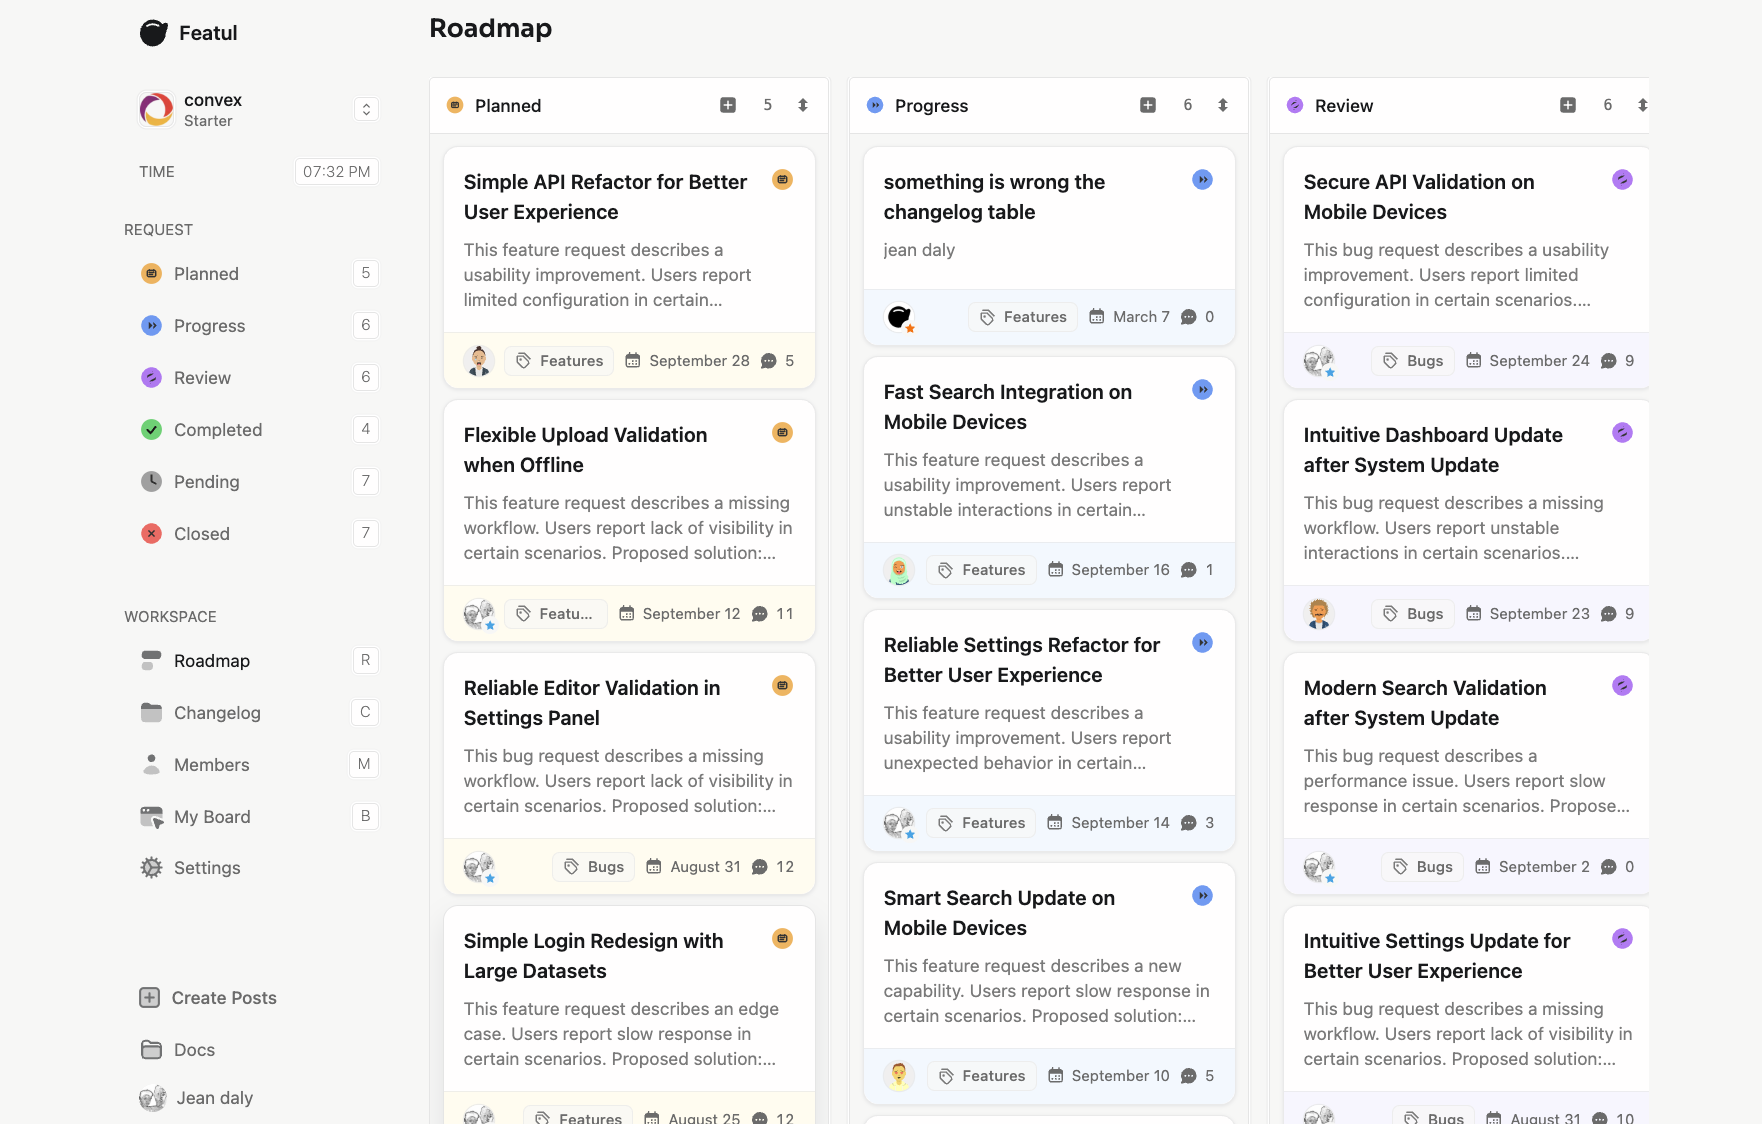
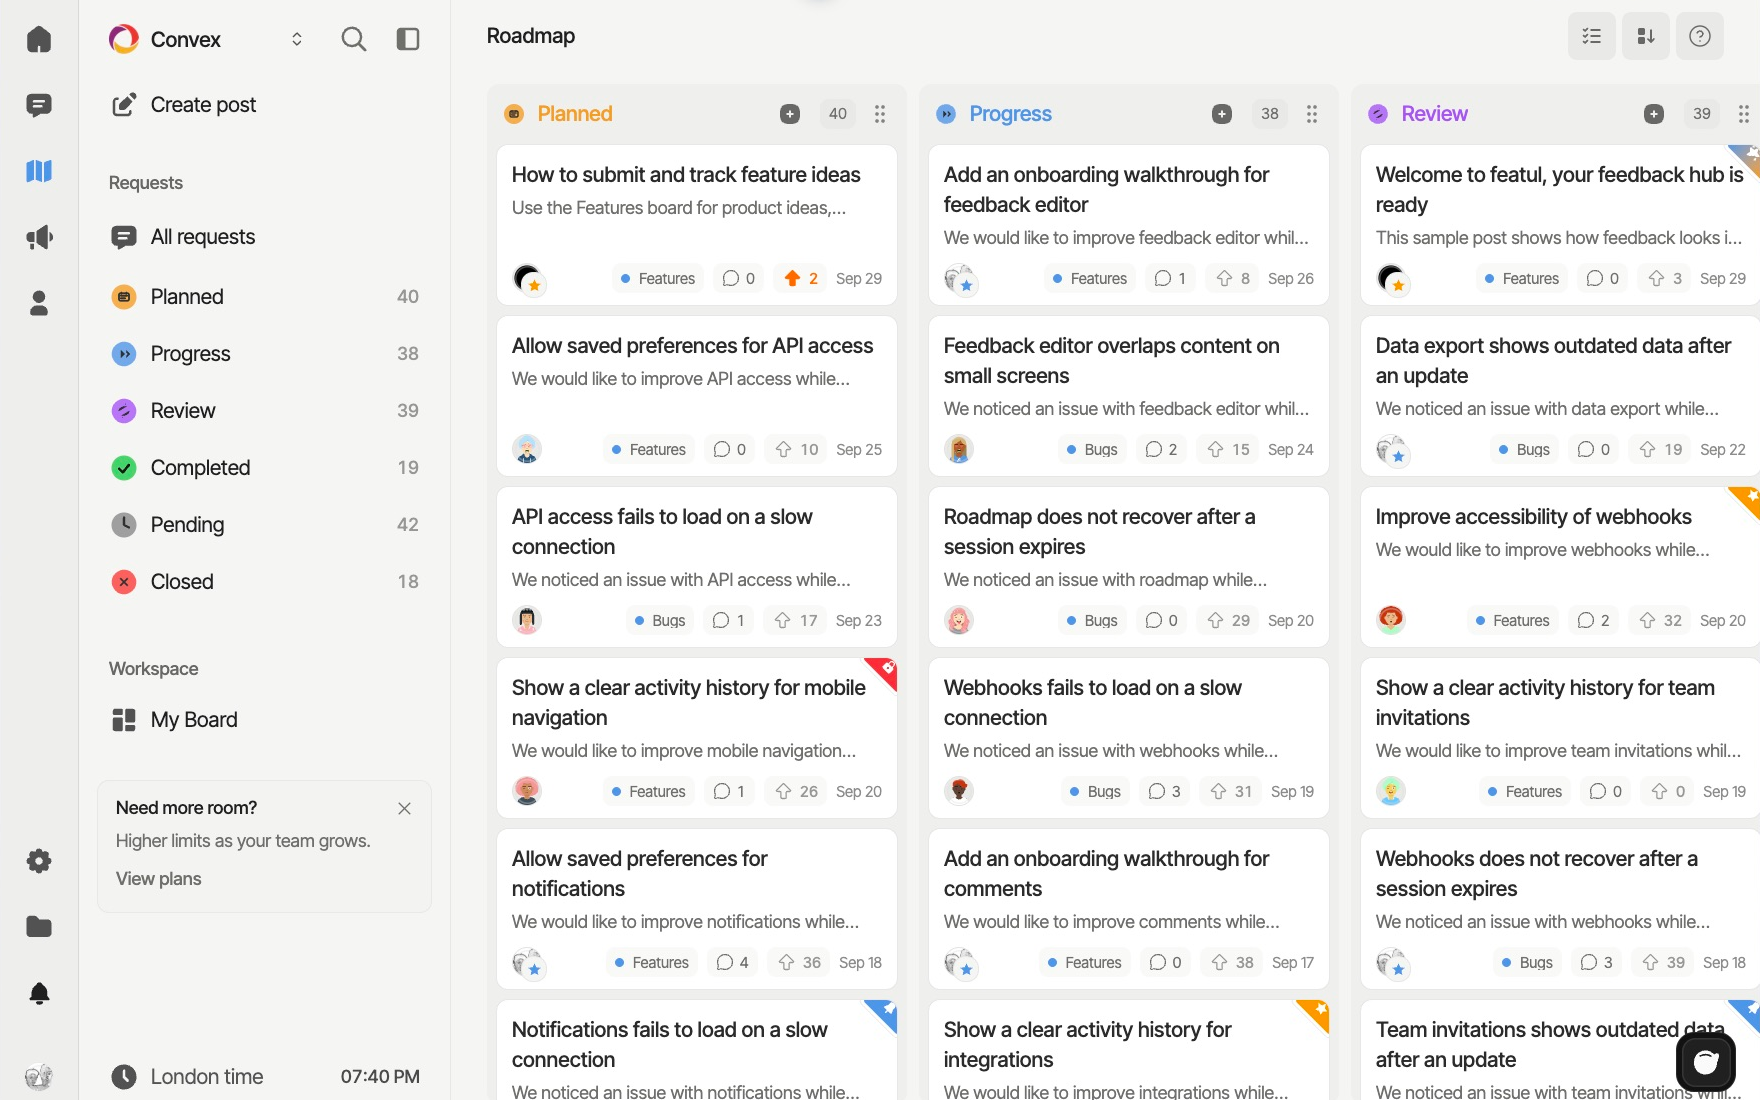
feat: refresh marketing screenshots and preview transitions

diff --git a/apps/web/src/components/home/showcase.tsx b/apps/web/src/components/home/showcase.tsx
@@ -10,7 +10,13 @@ import Image from "next/image";
 import { useId, useState } from "react";
 import { motion, useReducedMotion } from "framer-motion";
 import { Tabs } from "radix-ui";
-import { DASHBOARD_BLUR_DATA_URL } from "@/components/layout/sky-banner";
+import {
+  MarketingContainer,
+  MarketingRail,
+} from "@/components/layout/container";
+import dashboard from "../../../public/image/dashboard.png";
+import roadmap from "../../../public/image/roadmap.png";
+import changelog from "../../../public/image/changelog.png";
 import { DitherBackdrop } from "./backdrop";
 
 const previews = [
@@ -19,9 +25,7 @@ const previews = [
     label: "Feedback",
     icon: BoardIcon,
     iconColor: "#4189e2",
-    image: "/image/dashboard.png",
-    width: 1762,
-    height: 1124,
+    image: dashboard,
     alt: "Featul feedback workspace with customer requests, votes, comments, and statuses",
   },
   {
@@ -29,9 +33,7 @@ const previews = [
     label: "Roadmap",
     icon: RoadmapIcon,
     iconColor: "#3b95af",
-    image: "/image/roadmap.png",
-    width: 1762,
-    height: 1124,
+    image: roadmap,
     alt: "Featul roadmap showing customer requests organized into planned, progress, and review columns",
   },
   {
@@ -39,9 +41,7 @@ const previews = [
     label: "Changelog",
     icon: ChangelogIcon,
     iconColor: "#837ec8",
-    image: "/image/changelog.png",
-    width: 1762,
-    height: 1124,
+    image: changelog,
     alt: "Featul changelog workspace for writing and publishing product updates",
   },
 ];
@@ -115,24 +115,30 @@ export function Showcase() {
         <Tabs.Content
           key={preview.id}
           value={preview.id}
-          className="px-3 pb-12 pt-10 focus-visible:outline-2 focus-visible:outline-offset-4 focus-visible:outline-primary sm:px-10 sm:py-16 lg:px-16 lg:pb-24 lg:pt-20"
+          className="pb-12 pt-8 focus-visible:outline-2 focus-visible:outline-offset-4 focus-visible:outline-primary sm:pb-16 sm:pt-12 lg:pb-20"
         >
-          <div className="mx-auto max-w-[1080px] overflow-hidden rounded-xl bg-card p-1 shadow-[0_24px_64px_-20px_rgba(0,0,0,0.35)] ring-1 ring-white/40 sm:rounded-2xl sm:p-2">
-            <div className="overflow-hidden rounded-lg">
-              <Image
-                src={preview.image}
-                alt={preview.alt}
-                width={preview.width}
-                height={preview.height}
-                quality={100}
-                priority={index === 0}
-                sizes="(max-width: 639px) calc(100vw - 32px), (max-width: 1023px) calc(100vw - 96px), (max-width: 1207px) calc(100vw - 144px), 1064px"
-                placeholder="blur"
-                blurDataURL={DASHBOARD_BLUR_DATA_URL}
-                className="block h-auto w-full"
-              />
-            </div>
-          </div>
+          <MarketingContainer>
+            <MarketingRail>
+              <div className="overflow-hidden rounded-xl bg-card p-1 shadow-[0_24px_64px_-20px_rgba(0,0,0,0.35)] ring-1 ring-white/40 sm:rounded-2xl sm:p-2">
+                <motion.div
+                  initial={reduceMotion ? false : { opacity: 0.85 }}
+                  animate={{ opacity: 1 }}
+                  transition={{ duration: reduceMotion ? 0 : 0.2, ease: "easeOut" }}
+                  className="aspect-[16/10] overflow-hidden rounded-lg"
+                >
+                  <Image
+                    src={preview.image}
+                    alt={preview.alt}
+                    quality={100}
+                    priority={index === 0}
+                    sizes="(max-width: 639px) calc(90vw - 32px), (max-width: 1023px) calc(100vw - 144px), (max-width: 1151px) calc(100vw - 160px), (max-width: 1279px) 992px, 976px"
+                    placeholder="blur"
+                    className="block h-full w-full object-contain"
+                  />
+                </motion.div>
+              </div>
+            </MarketingRail>
+          </MarketingContainer>
         </Tabs.Content>
       ))}
     </Tabs.Root>

diff --git a/apps/web/src/components/layout/hero.tsx b/apps/web/src/components/layout/hero.tsx
@@ -3,10 +3,8 @@
 import type { ReactNode } from "react";
 import Image from "next/image";
 import { MarketingContainer, MarketingRail } from "@/components/layout/container";
-import {
-  DASHBOARD_BLUR_DATA_URL,
-  SkyDashboardFrame,
-} from "@/components/layout/sky-banner";
+import { SkyDashboardFrame } from "@/components/layout/sky-banner";
+import dashboard from "../../../public/image/dashboard.png";
 import { cn } from "@featul/ui/lib/utils";
 
 type SkyMarketingHeroProps = {
@@ -42,14 +40,11 @@ export function SkyMarketingHero({
             className={bannerClassName}
           >
             <Image
-              src="/image/dashboard.png"
+              src={dashboard}
               alt={imageAlt}
-              width={1762}
-              height={1124}
               priority
               sizes="(max-width: 1280px) 100vw, 1152px"
               placeholder="blur"
-              blurDataURL={DASHBOARD_BLUR_DATA_URL}
               className="block h-auto w-full"
             />
           </SkyDashboardFrame>

diff --git a/apps/web/src/components/layout/sky-banner.tsx b/apps/web/src/components/layout/sky-banner.tsx
@@ -6,9 +6,6 @@ const dashboardGlassShellClass =
 
 const dashboardGlassInnerClass = "overflow-hidden rounded-lg";
 
-export const DASHBOARD_BLUR_DATA_URL =
[1 lines of base64/hex data omitted]
-
 /** Product screenshot frame — frosted glass around the dashboard. */
 export function SkyDashboardFrame({
   children,
